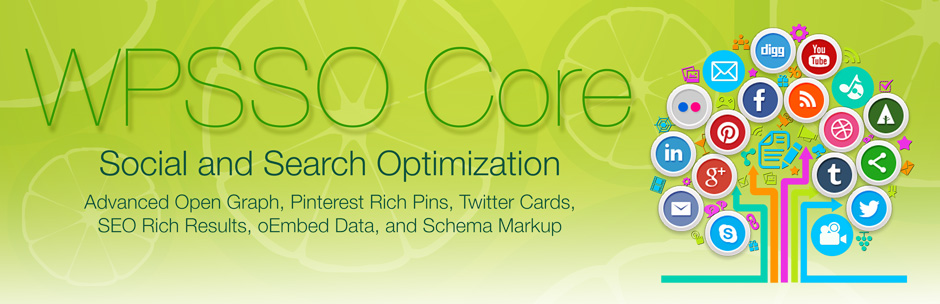
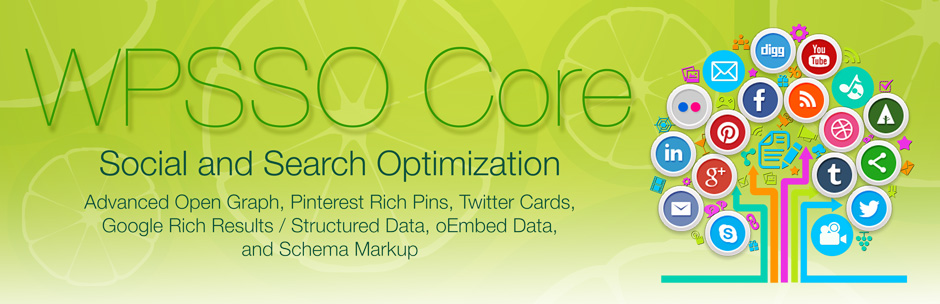
non-essential support files (documentation and assets)

Changed region(s): [[0.0926, 0.7105, 0.617, 0.7697], [0.2468, 0.7993, 0.4628, 0.8586]]

diff --git a/index.html b/index.html
@@ -25,7 +25,7 @@
         </ul>
       </header>
       <section>
-<h1>WPSSO Core | Advanced Open Graph, Rich Pins, Twitter Cards, SEO Rich Results, oEmbed Data, and Schema Markup</h1>
+<h1>WPSSO Core | Advanced Open Graph, Rich Pins, Twitter Cards, Structured Data, oEmbed and Schema Markup</h1>
 
 <table>
 <tr><th align="right" valign="top" nowrap>Plugin Name</th><td>WPSSO Core</td></tr>
@@ -54,7 +54,7 @@
 
 <p><strong>Creates <em>complete and accurate</em> meta tags and Schema markup:</strong></p>
 
-<p>WPSSO Core and its optional add-ons offer meta tags and Schema markup for Facebook / Open Graph, Google's Knowledge Graph, Google SEO Rich Results (see the <a href="https://wordpress.org/plugins/wpsso-schema-json-ld/">WPSSO JSON add-on</a>), Google Merchant, Mobile Web Browsers, oEmbed for LinkedIn, Pinterest Rich Pins, Twitter Cards, Weibo and many more &mdash; including complete markup for image SEO, video SEO, extensive e-Commerce product markup (for WooCommerce and others), mobile apps, author profile / authorship, co-authors, publisher information, local business markup, aggregate ratings, reviews, recipe information, event details, and much, much more &mdash; all from your existing WordPress content!</p>
+<p>WPSSO Core and its optional add-ons offer meta tags and Schema markup for Facebook / Open Graph, Google's Knowledge Graph, Google Rich Results / Structured Data (see the <a href="https://wordpress.org/plugins/wpsso-schema-json-ld/">WPSSO JSON add-on</a>), Google Merchant, Mobile Web Browsers, oEmbed for LinkedIn, Pinterest Rich Pins, Twitter Cards, Weibo and many more &mdash; including complete markup for image SEO, video SEO, extensive e-Commerce product markup (for WooCommerce and others), mobile apps, author profile / authorship, co-authors, publisher information, local business markup, aggregate ratings, reviews, recipe information, event details, and much, much more &mdash; all from your existing WordPress content!</p>
 
 <p><strong>Includes advanced <em>quality assurance</em> features and options:</strong></p>
 
@@ -84,7 +84,7 @@
 <li><p>Updates the WordPress oEmbed data and HTML markup with the Open Graph title, description, and image for posts, pages, and custom post types.</p></li>
 <li><p>Provides meta tags and markup for posts, pages, custom post types, tags, categories, custom taxonomy / terms, user profile pages, search pages, and attachment pages.</p></li>
 <li><p>Uses images from numerous sources, including featured, attached, gallery shortcode, images from HTML tags, or a custom fallback image.</p></li>
-<li><p>Image dimension settings for Facebook / Open Graph, Schema markup, Google SEO Rich Results, Pinterest Rich Pins, and Twitter Cards.</p></li>
+<li><p>Image dimension settings for Facebook / Open Graph, Schema markup, Google Rich Results / Structured Data, Pinterest Rich Pins, and Twitter Cards.</p></li>
 <li><p>Contextual help for <em>every</em> plugin option and <a href="https://wpsso.com/docs/plugins/wpsso/">comprehensive online documentation</a>.</p></li>
 <li><p>Built-in support for <a href="https://wordpress.org/plugins/amp/">AMP</a>, <a href="https://wordpress.org/plugins/better-amp/">Better AMP</a>, and <a href="https://wordpress.org/plugins/accelerated-mobile-pages/">AMP for WP</a> plugins.</p></li>
 <li><p>Supports advanced WordPress configurations, including <a href="https://wpsso.com/docs/plugins/wpsso/notes/multisite-network-support/">WordPress Network / Multisite installations</a> and WordPress MU Domain Mapping.</p></li>
